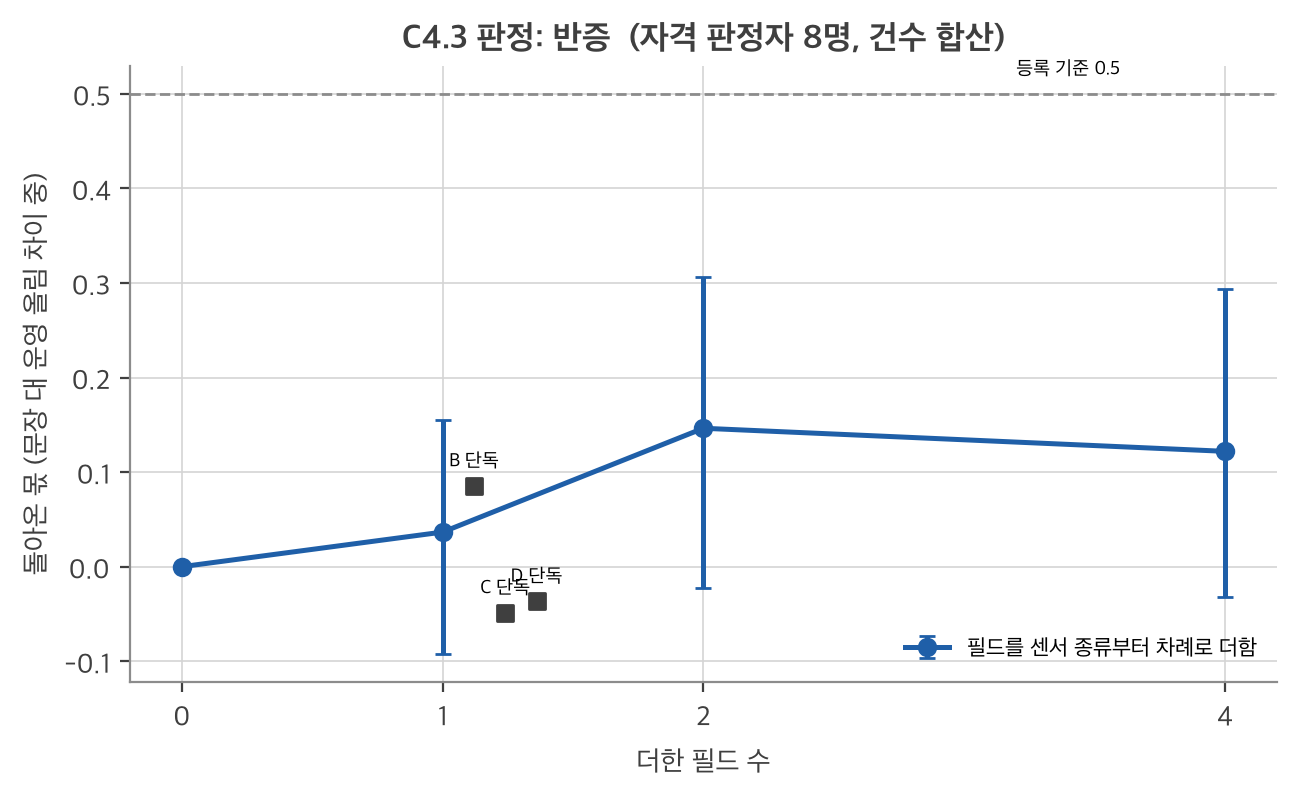
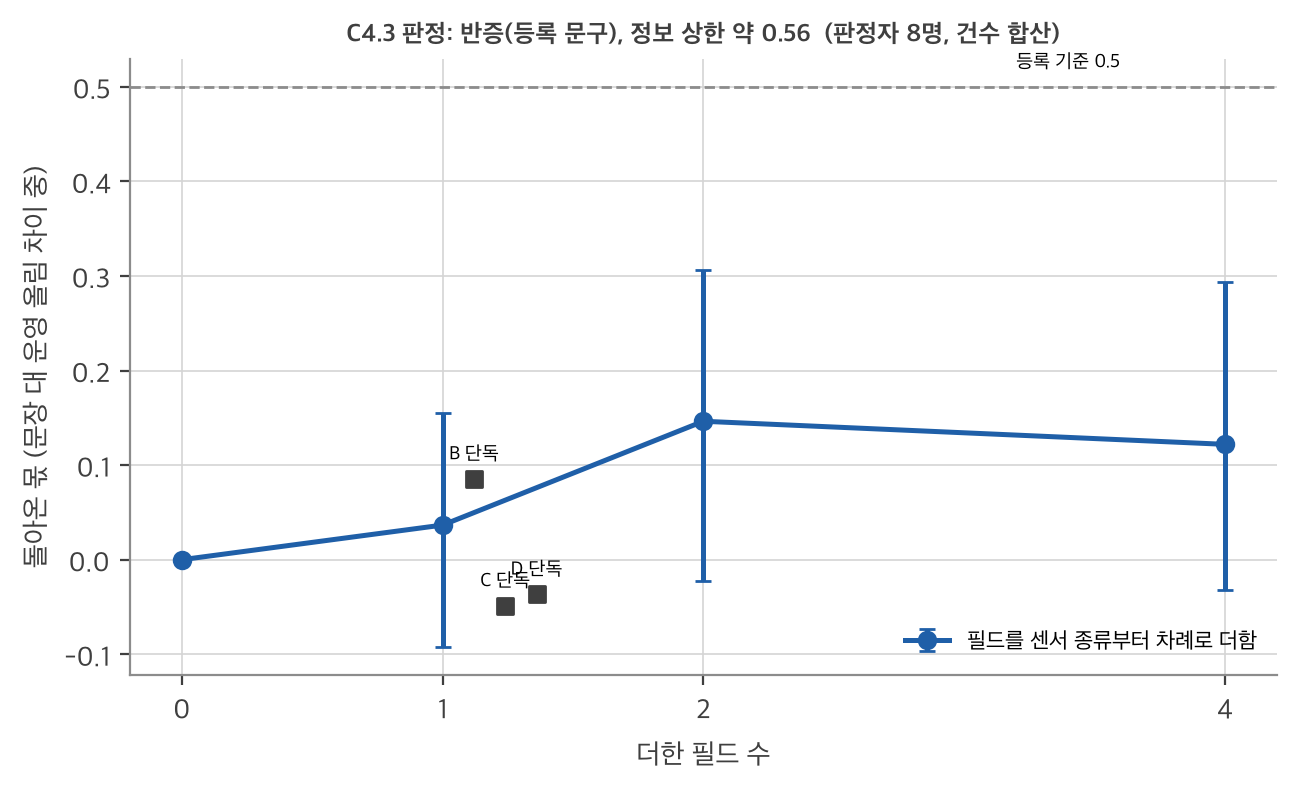
exp(e11): 타당성 검토 반영 — C4.2 판정 사유·접두사 분할, C4.3 정보 상한·정보 있는 사례만, 사후 변경 스탬프

diff --git a/experiments/e11_wording_fields/analyze.py b/experiments/e11_wording_fields/analyze.py
@@ -144,6 +144,33 @@ def _gain(c: dict[str, tuple[int, int, int]], pick: list[str]) -> float | None:
     return None if n == 0 else (sum(c[x][0] for x in pick) - sum(c[x][1] for x in pick)) / n
 
 
+URGENT_WORD = "긴급"
+
+
+def _prefix_split(
+    table: Table, acc: dict[str, dict[str, str]], judges: list[str], danger: list[str], calm: list[str],
+    w: dict[str, float],
+) -> dict[str, Any]:
+    """Raise-rate gain of the alarming rewrites split by whether the accepted text carries '긴급' (descriptive)."""
+    out: dict[str, Any] = {"marker": URGENT_WORD}
+    for pool_name, pool in (("calm", calm), ("danger", danger)):
+        sub: dict[str, Any] = {}
+        for name, has in (("with_urgent_marker", True), ("without_urgent_marker", False)):
+            pick = [c for c in pool if c in acc.get("alarming", {}) and (URGENT_WORD in acc["alarming"][c]) == has]
+            gc = {j: _gain_contrib(table, j, "rw_alarming", pick) for j in judges}
+            pt = _wmean({j: _gain(gc[j], pick) for j in judges}, w) if pick else None
+            rng = _rng(f"c42-prefix-{pool_name}-{name}")
+            bs: list[float] = []
+            for _ in range(BOOT if pick else 0):
+                s = [pick[i] for i in rng.integers(0, len(pick), size=len(pick))]
+                m = _wmean({j: _gain(gc[j], s) for j in judges}, w)
+                if m is not None:
+                    bs.append(m)
+            sub[name] = {"cases": len(pick), "gain_equal_weight": pt, "gain_ci95_case_bootstrap": _ci(bs)}
+        out[pool_name] = sub
+    return out
+
+
 def _c42(table: Table, design: dict[str, Any], judges: list[str]) -> dict[str, Any]:
     acc = design.get("accepted", {"neutral": {}, "alarming": {}})
     pv = design.get("pair_variant", {})
@@ -216,7 +243,35 @@ def _c42(table: Table, design: dict[str, Any], judges: list[str]) -> dict[str, A
     nd = out["cells"]["neutral_on_danger"]
     ac = out["cells"]["alarming_on_calm"]
     ret, gain = nd["retention_normalised_equal_weight"], ac["raise_rate_gain_equal_weight"]
-    excl_over = any((e["final_rate"] or 0) > EXCLUDE_MAX for e in excl.values())
+    excl_over_final = any((e["final_rate"] or 0) > EXCLUDE_MAX for e in excl.values())
+    excl_over_pass1 = all((e["pass1_rate"] or 0) > EXCLUDE_MAX for e in excl.values())
+    excl_over = excl_over_final
+    if ret is None or gain is None:
+        verdict_if_final, why_if_final = "판정 불가", "retention or gain undefined"
+    elif ret >= RETAIN_SUPPORT and gain >= GAIN_FALSIFY:
+        verdict_if_final, why_if_final = "둘 다", "retention >= .80 and calm gain >= .10"
+    elif ret < RETAIN_FALSIFY or gain >= GAIN_FALSIFY:
+        verdict_if_final, why_if_final = "반증", "retention < .50 or calm gain >= .10"
+    elif ret >= RETAIN_SUPPORT and gain < GAIN_SUPPORT:
+        verdict_if_final, why_if_final = "지지", "retention >= .80 and calm gain < .05"
+    else:
+        verdict_if_final, why_if_final = "판정 불가", "between the registered thresholds"
+    out["prefix_split"] = _prefix_split(table, acc, judges, danger, calm, w)
+    if excl_over_pass1 or excl_over:
+        # metric-review reading (validity review): the 20% rule is read on the pass-1 failures
+        out["verdict_c42"] = {
+            "label": "판정 불가",
+            "reason": ("manipulation/exclusion rule failed (pass-1 exclusions exceed 20% in both arms; "
+                       "pass-2 checker looser than the pre-run plan; alarming arm became an emergency-assertion prefix)"),
+            "retention": ret, "calm_gain": gain,
+            "point_estimates_status": "exploratory (not usable for the registered verdict)",
+            "label_if_final_exclusions_were_used": verdict_if_final,
+            "reason_if_final_exclusions_were_used": why_if_final,
+            "pass1_exclusion_rates": {a: e["pass1_rate"] for a, e in excl.items()},
+        }
+        out["thresholds"] = {"retention_support": RETAIN_SUPPORT, "retention_falsify": RETAIN_FALSIFY,
+                             "gain_support": GAIN_SUPPORT, "gain_falsify": GAIN_FALSIFY, "exclusion_max": EXCLUDE_MAX}
+        return out
     if excl_over:
         verdict, why = "판정 불가", "exclusion share above 20% in a registered arm"
     elif ret is None or gain is None:
@@ -246,7 +301,7 @@ def _common_keys(table: Table, judge: str, ctxs: tuple[str, ...], rep: int) -> l
     return sorted(set.intersection(*sets)) if all(sets) else []
 
 
-def _c43(table: Table, judges: list[str]) -> dict[str, Any]:
+def _c43(table: Table, design: dict[str, Any], judges: list[str]) -> dict[str, Any]:
     out: dict[str, Any] = {"judges": judges, "min_denominator": MIN_DENOM, "arms": {}}
     # eligibility from sentence vs operational only (independent of the target arm)
     elig: dict[str, dict[str, int]] = {}
@@ -332,6 +387,104 @@ def _c43(table: Table, judges: list[str]) -> dict[str, Any]:
         "equal_weight_share_by_field_count": {"0": 0.0, **{str(n): means[n] for n in (1, 2, 4)}},
         "single_field_pooled_share": {a: a0.get(a, {}).get("pooled_returned") for a in ("f_A", "f_B", "f_C", "f_D")},
     }
+    out["field_information"] = _field_information(design)
+    out["informative_only"] = _informative_only(table, design, judges, elig0)
+    inf = out["informative_only"]
+    out["verdict_c43"]["qualifier"] = (
+        f"반증(등록 문구) — 정보 상한 ≈{inf['ceiling_share_reachable']:.2f}; "
+        f"정보가 있는 사례만으로는 {inf['label_informative_only_4_fields']}"
+    )
+    return out
+
+
+NULL_FIELDS = ((), "unknown", "0", "unknown")
+
+
+def _tuple(codes: dict[str, Any]) -> tuple[Any, ...]:
+    return (tuple(codes["sensor_kinds"]), codes["rate"], codes["concurrent"], codes["duration"])
+
+
+def _field_information(design: dict[str, Any]) -> dict[str, Any]:
+    """Which field differs between the calm and the danger variant of a pair (coder-A values)."""
+    codes = design.get("codes_A", {})
+    pv = design.get("pair_variant", {})
+    names = sorted({v["pair"] for v in pv.values() if v["pair"]})
+    cnt = {"sensor_kinds_set": 0, "sensor_kinds_emptiness": 0, "rate": 0, "concurrent": 0, "duration": 0,
+           "all_four_identical": 0}
+    for n in names:
+        a, b = codes[f"{n}/calm"], codes[f"{n}/danger"]
+        cnt["sensor_kinds_set"] += int(sorted(a["sensor_kinds"]) != sorted(b["sensor_kinds"]))
+        cnt["sensor_kinds_emptiness"] += int(bool(a["sensor_kinds"]) != bool(b["sensor_kinds"]))
+        for f in ("rate", "concurrent", "duration"):
+            cnt[f] += int(a[f] != b[f])
+        cnt["all_four_identical"] += int(_tuple(a) == _tuple(b))
+    return {"pairs": len(names), "pairs_where_field_differs": cnt,
+            "cases_with_any_non_default_field": sum(1 for c in codes.values() if _tuple(c) != NULL_FIELDS),
+            "cases": len(codes)}
+
+
+def _informative_only(table: Table, design: dict[str, Any], judges: list[str], elig0: list[str]) -> dict[str, Any]:
+    """Ceiling of the returned share and the share restricted to cases whose 4 fields are not all default.
+
+    A case whose four field values are all default (no anomalous sensor, rate unknown, concurrent 0, duration
+    unknown) gives the model exactly the operational summary plus constant text, so a rise there cannot come back
+    through the fields.  Ceiling = 1 - (denominator items on such cases) / (all denominator items); a denominator
+    item is a (judge, case, question) the judge raised with the sentence and not with the operational summary
+    (rep0, eligible judges).  Post-hoc reading added after the validity review (HYPOTHESES.md, 사후 변경 기록).
+    """
+    codes = design.get("codes_A", {})
+    informative = {c for c, v in codes.items() if _tuple(v) != NULL_FIELDS}
+    items = []
+    for j in elig0:
+        s_, o_ = _items(table, j, "sentence", 0), _items(table, j, "operational", 0)
+        items += [(j, k) for k, (a, f) in s_.items() if k in o_ and a > f and not o_[k][0] > o_[k][1]]
+    uninf = sum(1 for _, k in items if k[0] not in informative)
+    out: dict[str, Any] = {
+        "informative_cases": len(informative), "cases": len(codes),
+        "denominator_items": len(items), "denominator_items_on_uninformative_cases": uninf,
+        "ceiling_share_reachable": 1 - uninf / len(items) if items else None,
+        "arms": {},
+    }
+    for arm in FIELD_ARMS:
+        data: dict[str, tuple[list[tuple[str, str]], np.ndarray, np.ndarray, np.ndarray]] = {}
+        for j in elig0:
+            ks = [k for k in _common_keys(table, j, ("sentence", "operational", arm), 0) if k[0] in informative]
+            if ks:
+                data[j] = (ks, *(_raise_vec(table, j, c, 0, ks) for c in ("sentence", "operational", arm)))
+        if not data:
+            continue
+        rs, ro, rt = (sum(int(v[i].sum()) for v in data.values()) for i in (1, 2, 3))
+        cases = sorted({k[0] for v in data.values() for k in v[0]})
+        idx = {j: {c: [i for i, k in enumerate(v[0]) if k[0] == c] for c in cases} for j, v in data.items()}
+        rng = _rng(f"c43-informative-{arm}")
+        bs: list[float] = []
+        for _ in range(BOOT):
+            pick = [cases[i] for i in rng.integers(0, len(cases), size=len(cases))]
+            a = b = c_ = 0
+            for j, v in data.items():
+                sel = [i for c in pick for i in idx[j][c]]
+                a += int(v[1][sel].sum())
+                b += int(v[2][sel].sum())
+                c_ += int(v[3][sel].sum())
+            if a > b:
+                bs.append((c_ - b) / (a - b))
+        out["arms"][arm] = {
+            "raised_sentence": rs, "raised_operational": ro, "raised_arm": rt,
+            "pooled_returned": (rt - ro) / (rs - ro) if rs > ro else None,
+            "pooled_returned_ci95_case_bootstrap": _ci(bs),
+        }
+    a4 = out["arms"].get("f_ABCD", {})
+    ci = a4.get("pooled_returned_ci95_case_bootstrap")
+    if a4.get("pooled_returned") is None or ci is None:
+        lab = "판정 불가"
+    elif ci[1] < 0.5:
+        lab = "반증"
+    elif ci[0] >= 0.5:
+        lab = "지지"
+    else:
+        lab = "판정 불가"
+    out["label_informative_only_4_fields"] = lab
+    out["label_rule"] = "post-hoc: interval entirely below 0.5 -> 반증; entirely at/above 0.5 -> 지지; else 판정 불가"
     return out
 
 
@@ -455,7 +608,7 @@ def summarize(raw_dir: Path) -> dict[str, Any]:
         "judges": judges,
         "counts": _basic_counts(table, judges),
         "c42_wording": _c42(table, design, judges),
-        "c43_fields": _c43(table, judges),
+        "c43_fields": _c43(table, design, judges),
         "rule_vs_models": _rule_vs_models(table, judges),
         "coder_agreement_A_vs_B": _coder_agreement(design),
         "design": {k: design.get(k) for k in ("exclusions", "tone_mean_by_pass")},

diff --git a/tests/test_e11_fields.py b/tests/test_e11_fields.py
@@ -69,3 +69,23 @@ def test_checks_flag_number_tag_length_and_added_entity() -> None:
     assert any(f.startswith("length") for f in checks.check_one(orig, orig + " " + orig, ents))
     assert any(f.startswith("entities_added") for f in checks.check_one(orig, "[day] 오븐 220도 40분째 가동, 주방 무인, 화재.", ents))
     assert any(f.startswith("entities_missing") for f in checks.check_one(orig, "[day] 220도 40분째 가동, 주방 무인.", ents))
+
+
+def test_field_information_counts_pairs_and_default_cases() -> None:
+    from experiments.e11_wording_fields import analyze
+
+    null = {"sensor_kinds": [], "rate": "unknown", "concurrent": "0", "duration": "unknown"}
+    hot = {"sensor_kinds": ["gas"], "rate": "rising", "concurrent": "1", "duration": "unknown"}
+    design = {
+        "codes_A": {"p/calm": null, "p/danger": hot, "q/calm": null, "q/danger": dict(null)},
+        "pair_variant": {
+            "p/calm": {"pair": "p", "variant": "calm"}, "p/danger": {"pair": "p", "variant": "danger"},
+            "q/calm": {"pair": "q", "variant": "calm"}, "q/danger": {"pair": "q", "variant": "danger"},
+        },
+    }
+    info = analyze._field_information(design)
+    assert info["pairs"] == 2
+    assert info["pairs_where_field_differs"]["all_four_identical"] == 1
+    assert info["pairs_where_field_differs"]["sensor_kinds_emptiness"] == 1
+    assert info["pairs_where_field_differs"]["rate"] == 1
+    assert info["cases_with_any_non_default_field"] == 1

diff --git a/experiments/e11_wording_fields/figures.py b/experiments/e11_wording_fields/figures.py
@@ -42,7 +42,7 @@ def fig_c42(s: dict[str, Any], exp_dir: Path) -> Path:
     axes[1].set_yticks([])
     axes[1].set_ylim(-0.5, 0.5)
     axes[1].set_title("평온 사례 올림 증가 (비율 차이)", fontsize=9)
-    fig.suptitle(f"C4.2 판정: {s['c42_wording']['verdict_c42']['label']}", fontsize=10)
+    fig.suptitle(f"C4.2 판정: {s['c42_wording']['verdict_c42']['label']} (두 점추정은 탐색용)", fontsize=10)
     del names
     return plotstyle.save(fig, exp_dir, "c42_retention_and_calm_gain")
 
@@ -75,7 +75,8 @@ def fig_c43(s: dict[str, Any], exp_dir: Path) -> Path:
     ax.set_xticks([0, 1, 2, 4], ["0", "1", "2", "4"])
     ax.set_xlabel("더한 필드 수")
     ax.set_ylabel("돌아온 몫 (문장 대 운영 올림 차이 중)")
-    ax.set_title(f"C4.3 판정: {v['label']}  (자격 판정자 {len(v['eligible_judges_rep0'])}명, 건수 합산)")
+    ceil = s["c43_fields"]["informative_only"]["ceiling_share_reachable"]
+    ax.set_title(f"C4.3 판정: {v['label']}(등록 문구), 정보 상한 약 {ceil:.2f}  (판정자 {len(v['eligible_judges_rep0'])}명, 건수 합산)", fontsize=9)
     ax.legend(fontsize=8, loc="lower right")
     return plotstyle.save(fig, exp_dir, "c43_field_curve")
 

diff --git a/experiments/e11_wording_fields/RESULTS.md b/experiments/e11_wording_fields/RESULTS.md
@@ -6,12 +6,12 @@
 
 | 가설 | 판정 | 근거 숫자 |
 |---|---|---|
-| C4.2 올림은 사실인가 어휘인가 | **판정 불가** (등록 사이 구간) | 정규화 유지율 0.897 [0.811, 0.973] — 지지선 0.80 이상. 평온 사례 올림 증가 +0.089 [0.040, 0.149] — 지지선 +0.05 와 반증선 +0.10 사이 |
-| C4.3 필드가 얼마나 풍부해야 올림이 돌아오나 | **반증** | 필드 4개에서 돌아온 몫 0.122 [-0.032, 0.293] (< 0.5), 1·2·4개: 0.037 · 0.146 · 0.122 |
-| (C4.3 부수) 같은 필드를 넣은 규칙 조회 | 기술 결과 | 61항목 중 올림 4건, ADD-5 놓침 0.73 — 모델 중앙값 0.87~0.93 보다 낫지만 둘 다 대부분 놓친다 |
+| C4.2 올림은 사실인가 어휘인가 | **판정 불가** — 사유: 조작·제외 규칙 실패(1차 제외가 두 팔 모두 20% 초과, 2차 검사자가 사전 계획보다 느슨, 놀라게 하는 팔이 긴급 단정 접두사로 변함) | 두 점추정은 **탐색용**: 정규화 유지율 0.897 [0.811, 0.973], 평온 사례 올림 증가 +0.089 [0.040, 0.149]. 접두사 분할: '긴급' 있음 12사례 +0.118, 없음 6사례 +0.035 |
+| C4.3 필드가 얼마나 풍부해야 올림이 돌아오나 | **반증(등록 문구) — 정보 상한 ≈0.56; 정보가 있는 사례만으로는 판정 불가** | 4개 필드 0.122 [-0.032, 0.293], 1·2·4개 0.037 · 0.146 · 0.122. 정보 있는 19사례만: 4개 0.267 [0.026, 0.519], 2개 0.311 [0.026, 0.529]. 분모 84항목 중 37(44%)은 필드가 모두 기본값인 사례 |
+| (C4.3 부수) 같은 필드를 넣은 규칙 조회 | 기술 결과 (약한 근거) | 61항목 중 올림 4건, ADD-5 놓침 0.73 — 모델 중앙값 0.87~0.93 보다 낫지만 둘 다 대부분 놓친다. 기준이 올림 없는 팔에서 자명하게 성립하는 시험이라 '재지지'로 쓰지 않는다 |
 
-- C4.2 는 사실 쪽(유지율)이 예측을 채우고, 놀라게 하는 어휘 쪽이 예측(<5%p)과 반증선(≥10%p) 사이라 등록 규칙대로 판정 불가다. 읽기에 따라 방향을 말해 보면 '올림의 90% 는 사실이 바뀌지 않은 채 중립 어휘로 바꿔도 남는다'(어휘가 올림을 만든다는 가설에는 불리), 동시에 '놀라게 하는 틀을 앞에 붙이면 올림이 조금 늘어난다'(+0.09, 위험 사례에서는 +0.13, 탐색)이다.
-- C4.3: 필드를 네 개까지 늘려도 문장-운영 올림 차이의 12% 만 돌아왔다. C2.5(1.4%)·C3.1(11.3%)와 같은 크기이고 곡선은 2개 이후 평평하다. 단독 필드는 변화율(B) 0.085 가 가장 컸고 동시 이상 수(C)·지속 시간(D)은 0 이하.
+- C4.2: 등록 규칙을 1차 실패율로 읽으면(중립 22.2%, 놀람 88.9%) 두 팔 모두 20% 를 넘어 판정 불가다. 점추정(유지율 0.897, 증가 +0.089)은 등록 판정에 쓸 수 없는 **탐색 값**이다. 놀라게 하는 팔은 2차 검사(사전 계획보다 느슨)를 통과하면서 대부분 '긴급 상황:'이라는 단정 접두사가 되었다: 평온 18사례 중 12사례에 '긴급'이 있고 그 증가는 +0.118 [0.046, 0.197], 없는 6사례는 +0.035 [0.000, 0.078]. 즉 +0.089 의 대부분은 긴급 접두사에서 나왔고 어휘가 다양한 조작이 아니다. 중립판의 고쳐 쓰기도 1차 실패 6건 중 4건이 강도어('급증'→'증가', '급상승'→'상승', '침수 경보'→'경보', '낯선'→'식별되지 않은')를 약화한 것이었고 고쳐 쓰기가 이를 되살렸다 — 즉 중립판의 90% 유지율은 강도어를 되살린 판의 값이다. 이 결과로 '올림이 사실인가 어휘인가'를 가를 수 없다.
+- C4.3: 필드를 네 개까지 늘려도 문장 대 운영 올림 차이의 12% 만 돌아왔다(C2.5 1.4%, C3.1 11.3% 와 같은 크기). 그러나 이 시험의 도달 가능한 상한이 약 0.56 이다: 필드 4개가 모두 기본값(이상 센서 없음·변화율 unknown·동시 이상 0·지속 시간 unknown)인 사례가 45사례 중 26사례이고, 분모 84항목(문장에서 올림·운영에서 안 올림) 중 37항목(44%)이 그 사례에 있다 — 그 항목은 운영 요약과 같은 입력이라 필드로 돌아올 수 없다. 정보가 있는 19사례만 보면 4개 필드 0.267 [0.026, 0.519], 2개 필드 0.311 [0.026, 0.529]로 구간이 0.5 를 포함해 판정 불가다(사후 기준). 등록 문구 그대로의 판정은 반증이다. 곡선은 2개 이후 평평하고, 단독 필드는 변화율(B) 0.085 가 가장 컸고 동시 이상 수(C)·지속 시간(D)은 0 이하다.
 
 ## 방법
 
@@ -38,7 +38,7 @@
 
 ## 수치
 
-### C4.2 (8명 같은 무게; `c42_wording`)
+### C4.2 (8명 같은 무게; `c42_wording`) — 아래 점추정은 모두 탐색 값이다(위 판정 사유 참고)
 
 | 칸 | 받아들인 사례 | 정규화 유지율 [95%] | 올림 비율 변화(다시 쓴 것 − 원문) [95%] |
 |---|---:|---|---|
@@ -49,9 +49,10 @@
 
 - 유지율 = 원문에서 하한 위로 답한 항목 중 다시 쓴 문장에서도 위로 답한 몫을 판정자별로 구해 반복 재시험 유지율(원문 rep0 대 rep1)로 나눈 값(`summary.json: c42_wording.cells.neutral_on_danger.retention_normalised_equal_weight`). 정규화 전 0.880. 판정자별 정규화 유지율: apus 0.875, gemini 1.100(재시험 0.909), haiku 0.857, jev-9b-q6 0.900, jev-api 0.955, jevk5-4b-q4 0.750, jevk5-4b-q8 0.909, jevk5-9b-q8 0.833. 로컬 5명은 결정적이라 재시험 1.0, 클라우드의 재시험은 Jev 0.957·Gemini 0.909·Haiku 1.0. jevk5 를 하나로 센 민감도: 유지율 0.920, 평온 증가 +0.084.
 - 평온 사례 증가 = 놀라게 하는 판 올림 비율 − 원문 올림 비율, 판정자별 −0.00(Gemini)~+0.15(apus, jevk5-4b-q8). 항목 26개(확인 강도 18 + 파급도 8)라 판정자별 한 칸이 약 0.038 이다. 평온 사례 원문의 판정자당 올림은 1~2건이다.
-- 제외 수(등록 팔별, 18사례 기준): **1차 실패** 중립판(위험 사례) 4건 = 22.2%, 놀라게 하는 판(평온 사례) 16건 = 88.9%(전체 36문장 중 중립 6 · 놀람 33). **고쳐 쓰기** 39개 중 대상 33 id. **최종 제외**: 등록 두 팔 모두 0건(0%), 탐색 칸에서 평온×중립 1건(sit-leak/calm: 2차 재검사에서 '물이 호스에 있다'로 출처 관계가 약해짐). 20% 기준은 최종 제외 기준으로 적용했고(0% 이하 통과), 1차 실패율은 위에 병기했다 — 중립판은 22.2% 로 선 근처, 놀라게 하는 판은 크게 넘었다. 1차 실패율을 기준으로 삼았다면 판정 불가가 된다는 점을 공개한다.
+- 제외 수(등록 팔별, 18사례 기준): **1차 실패** 중립판(위험 사례) 4건 = 22.2%, 놀라게 하는 판(평온 사례) 16건 = 88.9%(전체 36문장 중 중립 6 · 놀람 33). **고쳐 쓰기** 39개 중 대상 33 id. **최종 제외**: 등록 두 팔 모두 0건(0%), 탐색 칸에서 평온×중립 1건(sit-leak/calm: 2차 재검사에서 '물이 호스에 있다'로 출처 관계가 약해짐). **20% 기준은 1차 실패율로 읽는다**(타당성 검토 반영; 처음에는 최종 제외 0% 로 통과한다고 적었으나 고쳐 쓰기가 제외를 줄이는 자유도라 틀렸다). 중립판 22.2%·놀라게 하는 판 88.9% 로 두 팔 모두 20% 를 넘으므로 판정 불가다. 최종 제외(0%)는 병기만 한다.
 - 어조 확인(검사자, 1~5): 중립판 평균 1.08(1차)·1.18(2차), 놀라게 하는 판 3.28(1차)·3.91(2차). 조작은 방향대로 작동했으나 놀라게 하는 판은 위 기준 조정 뒤 '긴급 상황:' 틀 위주다.
-- 판정 규칙(실행 전 고정): 제외>20% → 판정 불가 / 유지율 ≥ 0.80 이고 증가 ≥ 10%p → 둘 다 / 유지율 < 0.50 또는 증가 ≥ 10%p → 반증 / 유지율 ≥ 0.80 이고 증가 < 5%p → 지지 / 그 밖 판정 불가. 점추정으로 판정했다.
+- 판정 규칙(실행 전 고정): 제외>20% → 판정 불가 / 유지율 ≥ 0.80 이고 증가 ≥ 10%p → 둘 다 / 유지율 < 0.50 또는 증가 ≥ 10%p → 반증 / 유지율 ≥ 0.80 이고 증가 < 5%p → 지지 / 그 밖 판정 불가. 이번에는 제외 규칙이 걸려(1차 실패율 기준) 나머지 분기는 적용하지 않았고 두 점추정은 탐색 값이다. 최종 제외 기준으로 읽으면 '그 밖'(사이 구간)이라 어느 쪽으로 읽어도 판정 불가다.
+- 접두사 분할(`prefix_split`, 기술): 놀라게 하는 판 중 '긴급' 낱말이 든 것과 없는 것의 올림 증가. 평온 사례 12 / 6 사례 +0.118 [0.046, 0.197] / +0.035 [0.000, 0.078], 위험 사례 10 / 8 사례 +0.144 / +0.115.
 
 ### C4.3 (rep0, 자격 판정자 8명 전원 — 분모 `문장 올림 − 운영 올림` 이 모두 5 이상: 7·12·9·11·11·12·8·12; `c43_fields`)
 
@@ -95,26 +96,28 @@
 
 - 변화율·지속 시간 필드는 대부분 unknown 이라(값 있는 사례 8·5건) 높은 κ 가 쉽게 나온다(AC1 병기). 불일치 2건: `sit-smoke/danger`(A smoke 대 B other+smoke, '탄 냄새'를 B 는 별도 센서로 셈 → 동시 이상 수도 1 대 2), `sit-water_main/danger`(A water_flow 대 B water_flow+water_leak, '침수'를 B 는 누수 센서로 셈).
 - 코더 A 의 판단 기록(중계 받음): 지속 시간은 이상 센서가 없어도 문장에 적힌 경과 시간이면 코딩(k01·k10·k14·k45); `10분 새`(k38)는 10to60m; '탄 냄새'(k09)는 연기 경보에 포함(concurrent 1); 단순 움직임은 이상 아님(k12·k24·k27·k41), '낯선 움직임'(k13)만 motion; 온도·습도 읽기가 이상이라고 명시되지 않으면 센서 종류 없음(k01·k08·k11·k32·k42·k44); k16 변화율 unknown. 코더 B 는 m04·m40(10to60m)·m10(gt60m)을 같은 방식으로 코딩했고 m15 에 door_contact, m24 에 `other`(탄 냄새 → concurrent 2), m45 에 water_leak(침수 → concurrent 2)를 더했다. 위 일치표가 두 코더의 불일치 전부(두 건)를 보여 준다.
-- 코더 A 값이 곧 모델 입력이므로 B 값을 쓴 경우는 시험하지 않았다. '이상 있음/없음'은 두 코더가 100% 일치하고 이 비트가 사실상 평온/위험 구분에 가까워(예: 센서 종류가 비어 있으면 위험 쌍의 한쪽) 필드 정보의 큰 부분이 이 한 비트다.
+- 코더 A 값이 곧 모델 입력이므로 B 값을 쓴 경우는 시험하지 않았다.
+- **필드가 쌍 안에서 담는 정보(`field_information`, 코더 A, 18쌍)**: 센서 종류 집합이 비었는지 여부가 평온/위험 쌍에서 다른 쌍은 2쌍뿐이고(집합 자체가 다른 쌍은 4쌍), 변화율이 다른 쌍이 6쌍으로 가장 많으며 지속 시간 4쌍, 동시 이상 수 3쌍이다. 네 필드가 모두 같은 쌍이 7쌍이다. 45사례 중 하나라도 기본값이 아닌 필드가 있는 사례는 19사례뿐이다. 즉 필드는 평온/위험을 가르는 한 비트가 아니라 대부분의 사례에서 정보가 없다(이전 판의 '이 한 비트가 필드 정보의 큰 부분' 서술은 틀렸다).
 
 ## 가설 판정
 
 | 가설 | 판정 | 근거(summary.json 키) |
 |---|---|---|
-| C4.2 | **판정 불가** | `c42_wording.verdict_c42`: 유지율 0.897 [0.811, 0.973], 평온 증가 +0.089 [0.040, 0.149]; 최종 제외 0%(1차 실패 22.2% / 88.9%) |
-| C4.3 | **반증** | `c43_fields.verdict_c43`: 4개 0.122 (건수 합산) / 0.115 (같은 무게), 구간 [-0.032, 0.293]; 자격 판정자 8명 |
-| 규칙 대 모델 (C4.3 함께 적기) | 약한 재지지 / 구조상 | `rule_vs_models`: 놓침 0.73 대 중앙값 0.90 (필드 4개). 올림 없는 팔에서는 비교가 자명 |
+| C4.2 | **판정 불가** (조작·제외 규칙 실패) | `c42_wording.verdict_c42.reason`; 1차 실패율 22.2% / 88.9% (`exclusions_registered_arms`); 점추정(유지율 0.897, 증가 +0.089)은 탐색 값; 접두사 분할 `prefix_split.calm` +0.118(긴급 12사례) 대 +0.035(6사례) |
+| C4.3 | **반증(등록 문구) — 정보 상한 ≈0.56; 정보가 있는 사례만으로는 판정 불가** | `c43_fields.verdict_c43.qualifier`: 4개 0.122 (건수 합산) / 0.115 (같은 무게), 구간 [-0.032, 0.293]; 상한 `informative_only.ceiling_share_reachable` 0.560; 정보 있는 사례만 `informative_only.arms.f_ABCD` 0.267 [0.026, 0.519] |
+| 규칙 대 모델 (C4.3 함께 적기) | 기술 결과(재지지 아님) | `rule_vs_models`: 놓침 0.73 대 중앙값 0.90 (필드 4개). 올림 없는 팔에서는 비교가 자명하고, 필드가 정보를 거의 못 담아 거의 실패할 시험이라 C3.1 의 재지지로 쓰지 않는다 |
 
 ## 한계
 
 - C4.2 의 놀라게 하는 판은 기준 조정 뒤 '긴급 상황:'·'심각한·위급한' 같은 정서 틀이 대부분이다(어휘 조작이 약함·정형화). 같은 구간이 +0.04~+0.15 로 판정선(0.05·0.10)에 걸쳐 있어 표본이 더 크거나 어휘 조작이 다양했다면 결과가 어느 쪽으로든 갈릴 수 있다. 위험 사례 올림 증가(+0.13)는 탐색이고 등록 팔이 아니다.
-- 1차 실패율(놀람 88.9%)이 높아 '사실을 지키며 놀라게 쓰기'가 어렵다는 것 자체가 결과다: 지킨 것만 남기면 어휘 조작의 폭이 줄고 사실 가설에 유리한 쪽으로 편향될 수 있다(제외 편향 지적과 같은 방향). 그래서 최종 제외 0% 가 아니라 1차 실패율도 병기했다.
+- 1차 실패율(놀람 88.9%)이 높아 '사실을 지키며 놀라게 쓰기'가 어렵다는 것 자체가 결과다: 지킨 것만 남기면 어휘 조작의 폭이 줄고 사실 가설에 유리한 쪽으로 편향될 수 있다(제외 편향 지적과 같은 방향). 그래서 20% 기준을 1차 실패율로 읽었다.
 - 다시 쓴 사례는 쌍 사례 18쌍(위험 18·평온 18)뿐이다. 평온 사례의 원문 올림이 판정자당 1~2건이라 평온 사례 유지율은 의미가 없고, 증가 지표는 항목 26개의 한 칸(약 0.038) 단위로 움직인다.
 - Gemini 는 상황 문장만 2회, 나머지는 1회라 재시험 정규화가 상황 문장 두 번(11건 원문 올림 중 재현 10건)에서만 나온다. 로컬 5명은 결정적이라고 가정했다(E5 에서 1모델만 확인; 이번 실행에서도 로컬은 1회만 돌려 재확인하지 않았다).
-- 필드: 코더 둘 다 같은 어휘·정의를 받았고 두 코더는 같은 모델 계열 에이전트다(독립성 제한). 필드 값이 대부분 unknown(변화율 값 있는 사례 8, 지속 시간 5)이고 '이상 센서 있음'이 한 비트로 쏠려 곡선이 필드 수보다 이 비트를 잰다. 필드 C 는 정의상 A 의 크기와 거의 같다(사전 공개). 벤치 문자열 변형이지 운영 필드가 아니며, 운영에서 이 값을 자동으로 만들 수 있는지는 시험하지 않았다.
+- 필드: 코더 둘 다 같은 어휘·정의를 받았고 두 코더는 같은 모델 계열 에이전트다(독립성 제한). 필드 값이 대부분 기본값(변화율 값 있는 사례 8, 지속 시간 5, 45사례 중 26사례는 네 필드가 모두 기본값)이라 이 시험이 도달할 수 있는 몫의 상한이 약 0.56 이다(분모 84항목 중 37이 그런 사례). 네 필드가 모두 같은 쌍도 7쌍이다. 필드 C 는 정의상 A 의 크기와 거의 같다(사전 공개). 벤치 문자열 변형이지 운영 필드가 아니며, 운영에서 이 값을 자동으로 만들 수 있는지는 시험하지 않았다.
 - 운영 요약에는 이미 `safety=<분류>` 가 있고 필드 A 는 그 위에 센서 종류를 더하는 것이라 정보가 일부 겹친다.
+- 로컬 5모델의 상황 문장·운영 요약 기준선은 E5 세션 원자료를 복사한 것이다(결정성은 E5 에서 1모델만 확인). Gemini 는 다시 쓰기·필드 팔을 1회만 돌렸다. C4.2 에는 판정자별 최소 항목 수 기준이 없다(예: jevk5-9b-q8 은 원문 올림 6항목에 근거).
 - 에이전트들(다시 쓰기·코더·규칙 매핑)이 라벨·결과를 보지 않았다는 것은 프롬프트로 금지했을 뿐 강제하지 못했다. 이 빌더는 벤치 문장과 E5 결과 문서를 읽은 상태였다.
-- 분석에 앞서 부분 데이터(실행 중간)로 분석 코드가 도는지 확인했고 그때 판정 문구를 보았다. 등록·분석 규칙은 그 뒤 바꾸지 않았다(사후 변경 없음).
+- (사후 변경 기록에도 적음: `experiments/HYPOTHESES.md`) 분석에 앞서 부분 데이터(실행 중간)로 분석 코드가 도는지 확인했고 그때 판정 문구를 보았다. 등록·분석 규칙은 그 뒤 바꾸지 않았다(사후 변경 없음).
 - 클라우드 첫 실행에서 두 프로세스가 같은 사용량 파일을 써 예산 계측이 중간에 `usage_unwritable` 로 멈췄다(요청은 보내지 않고 멈춤, 행 오염 없음). 남은 칸을 한 프로세스로 이어 돌렸다(`raw/budget_log.jsonl` 에 4줄).
 - 지연·load1: load1 30~70 이라 지연은 해석하지 않았다.
 - 미수행: 필드 값을 코더 B 로 바꾼 민감도, 규칙 매핑의 경계값 민감도, 위험 사례 올림에 대한 별도 가설 시험.
@@ -126,6 +129,5 @@
 ## 다음 사이클 제안
 
 - 어휘 조작을 정형 틀('긴급 상황:')에서 풀어 다양하게 쓰되 사실 보존은 같은 검사로 확인하는 사례를 늘려(쌍 18개 → 40개 이상) 평온 사례 증가를 +0.05/+0.10 선에서 가르는 표본으로 다시 시험.
-- 올림이 '긴급'·'심각' 같은 정서 낱말에 반응한다면 그것은 운영 모델 입력에 자유 문장이 없다는 사실(구조상 결과)과 같은 이야기의 이면이다 — 운영 경로에서 정서 낱말을 만들지 않는 것이 맞는지 확인.
-- 필드 곡선은 더 정보가 많은 필드(센서 종류 집합의 값 세분화, 이상 지속 시간의 실제 측정)를 데몬이 만들 수 있는지부터 따진다. 이번 필드로는 4개에서도 12% 이므로 필드 수를 늘리는 쪽은 근거가 약하다.
+- 필드 곡선은 필드가 문장 쌍 안에서 실제로 다르게 나오는 사례를 먼저 늘려(이번에는 26/45 사례가 네 필드 모두 기본값) 정보 상한을 높인 뒤 다시 그린다. 정보 있는 19사례만의 곡선(0.27 [0.03, 0.52])은 표본이 작아 가르지 못했다.
 - 규칙 조회의 경계값 민감도와 코더 B 값 입력 시험.

diff --git a/experiments/HYPOTHESES.md b/experiments/HYPOTHESES.md
@@ -353,3 +353,4 @@
 - **C4.2 20% 제외 규칙을 어느 시점으로 읽는가**: 처음 RESULTS 는 '최종 제외 0%'(고쳐 쓰기 뒤)를 적용해 통과로 적었다. 고쳐 쓰기가 제외를 줄이는 자유도라 검토 지적을 받아 **1차 실패율**(중립 22.2%, 놀람 88.9%, 둘 다 20% 초과)로 읽는다. 따라서 C4.2 는 판정 불가이고 유지율 0.897·평온 증가 +0.089 는 탐색 값이다. 최종 제외 기준으로 읽어도 '사이 구간'이라 판정 불가는 같다. 사후 기준이다.
 - **분석 코드 점검을 부분 데이터로 실행**: 실행이 끝나기 전에 부분 데이터로 분석 코드가 도는지 확인했고 그때 판정 문구를 보았다. 이후 등록·분석 규칙은 바꾸지 않았다(규칙 변경은 위 항목들뿐이며 모두 실행 전 또는 점검 뒤 검토 지적에 의한 것).
 - **C4.3 정보 상한과 '정보 있는 사례만' 읽기(사후 기준)**: 필드 네 개가 모두 기본값(이상 센서 없음·변화율 unknown·동시 이상 0·지속 시간 unknown)인 사례(45사례 중 26)는 운영 요약과 같은 입력이라 필드로 올림이 돌아올 수 없다. 분모 84항목 중 37항목(44%)이 그런 사례라 도달 가능한 몫의 상한은 약 0.56 이다. 정보 있는 19사례만의 몫(4개 필드 0.267 [0.026, 0.519])을 보조로 추가하고, 구간이 0.5 를 포함하면 판정 불가로 읽는다. 등록 문구 그대로의 판정(4개에서 0.122 < 0.5)은 **반증**이다. `analyze.py` 의 `informative_only` 가 계산한다.
+- **커밋 스탬프**: 위 E11 사후 변경 항목은 커밋 4195aa0(2026-11-12 11:37:40 KST)에서 추가되었다. 그 앞 E11 커밋은 b11024f(11:25:23)이고, 아래 타당성 검토를 반영한 분석·RESULTS 수정은 이 스탬프 이후 커밋이다.
